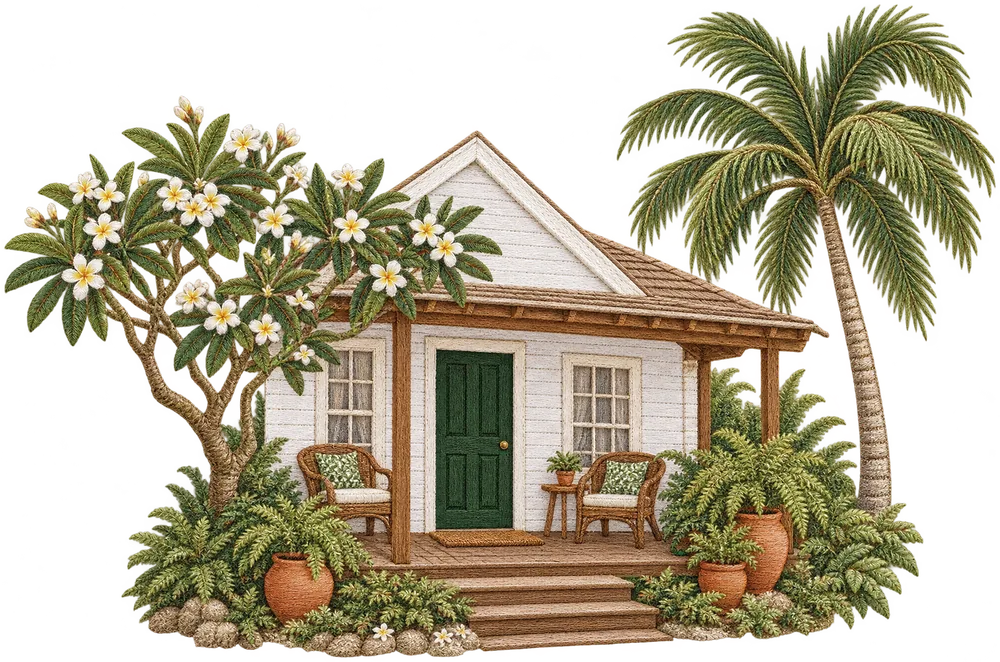
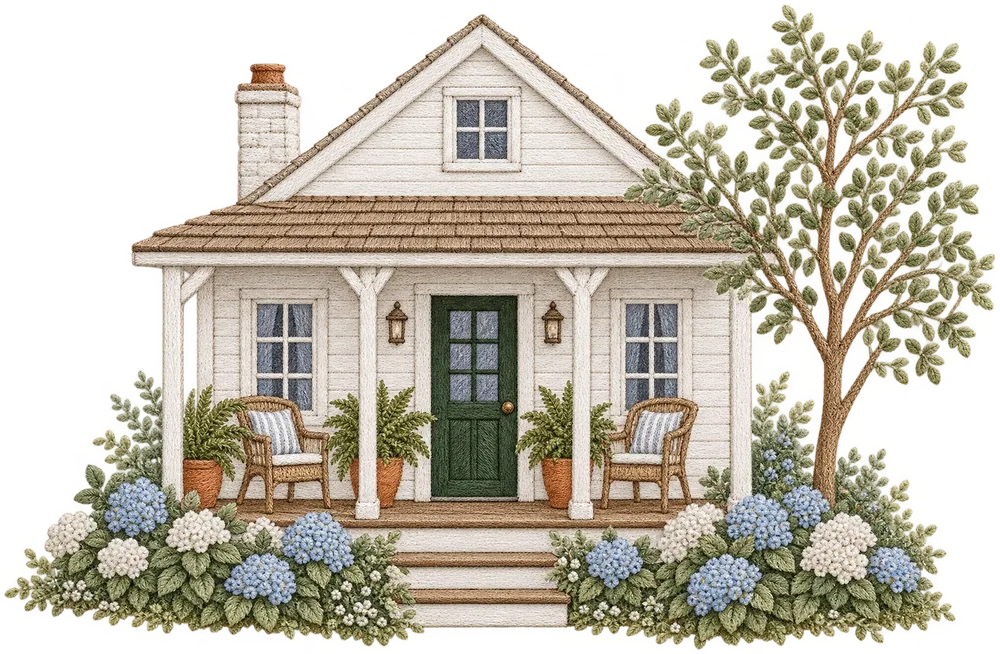
Hydrangeas and baby's breath instead of island flowers
Every floral piece redrawn with soft dusty-blue and white hydrangeas and
baby's breath, still sparse: the cover arch, envelope sprigs, stamp,
liner, side vines, cake, gramophone, bedside vase and the guest cottage.
Flower assets renamed from coastal-* to floral-*.

diff --git a/index.html b/index.html
@@ -14,7 +14,7 @@
 <meta property="og:url" content="https://benrodrigues05.github.io/rodrigues-wedding/">
 <meta property="og:title" content="Benjamin &amp; Talisha are getting married">
 <meta property="og:description" content="Saturday 6 March 2027 · Collisheen Estate, Ballito. Tap to open your invitation.">
-<meta property="og:image" content="https://benrodrigues05.github.io/rodrigues-wedding/assets/og.jpg?v=3ebeaa2f">
+<meta property="og:image" content="https://benrodrigues05.github.io/rodrigues-wedding/assets/og.jpg?v=dbecaaad">
 <meta property="og:image:width" content="1200">
 <meta property="og:image:height" content="630">
 <meta name="twitter:card" content="summary_large_image">
@@ -25,8 +25,8 @@
 <link rel="preconnect" href="https://fonts.gstatic.com" crossorigin>
 <link rel="stylesheet" href="https://fonts.googleapis.com/css2?family=Pinyon+Script&amp;display=block">
 <link rel="stylesheet" href="https://fonts.googleapis.com/css2?family=Cormorant+Garamond:ital,wght@0,400;0,500;0,600;1,400;1,500&amp;display=swap">
-<link rel="preload" as="image" href="assets/hero-arch.webp?v=c3e23fb2" type="image/webp">
-<link rel="stylesheet" href="styles.css?v=c2107449">
+<link rel="preload" as="image" href="assets/hero-arch.webp?v=a34bda23" type="image/webp">
+<link rel="stylesheet" href="styles.css?v=0fa6d76d">
 <script>
   /* Show the envelope only when JavaScript is running. If script.js?v=94473927 fails to
      load or errors, the invitation is revealed instead of staying sealed. */
@@ -47,8 +47,8 @@
 <!-- ============ THE ENVELOPE (shown first, opened by script.js?v=94473927) ============ -->
 <div class="scene" id="scene">
   <div class="scene-vignette" id="scene-vignette"></div>
-  <img class="scene-sprig scene-sprig--top" src="assets/coastal-corner.webp?v=b234eb41" width="600" height="652" alt="">
-  <img class="scene-sprig scene-sprig--bottom" src="assets/coastal-spray.webp?v=30b27298" width="600" height="821" alt="">
+  <img class="scene-sprig scene-sprig--top" src="assets/floral-corner.webp?v=78e29768" width="600" height="680" alt="">
+  <img class="scene-sprig scene-sprig--bottom" src="assets/floral-spray.webp?v=adca1588" width="600" height="560" alt="">
 
   <div class="envelope" id="envelope" aria-hidden="true">
     <div class="env-back is-hidden" id="env-back">
@@ -78,7 +78,7 @@
     </div>
 
     <div class="env-front" id="env-front">
-      <img class="env-stamp" src="assets/stamp.webp?v=bd9901a7" width="300" height="409" alt="">
+      <img class="env-stamp" src="assets/stamp.webp?v=f6080217" width="300" height="411" alt="">
       <svg class="env-postmark" viewBox="0 0 200 80" focusable="false">
         <defs>
           <path id="pm-top" d="M 13 40 A 27 27 0 0 1 67 40"/>
@@ -106,7 +106,7 @@
         </g>
       </svg>
       <p class="env-to"><span class="env-recipient" id="recipient">To our favourite people</span></p>
-      <img class="env-sprig" src="assets/coastal-sprig.webp?v=27c94e73" width="640" height="514" alt="">
+      <img class="env-sprig" src="assets/floral-sprig.webp?v=2c623f63" width="640" height="600" alt="">
     </div>
   </div>
 
@@ -119,8 +119,8 @@
 <!-- Wide screens only: the same sprigs as on the envelope's table, so the
      page keeps the setting once the letter is open. -->
 <div class="table-decor" id="table-decor" aria-hidden="true">
-  <img class="table-sprig table-sprig--top" src="assets/coastal-corner.webp?v=b234eb41" width="600" height="652" alt="">
-  <img class="table-sprig table-sprig--bottom" src="assets/coastal-spray.webp?v=30b27298" width="600" height="821" alt="">
+  <img class="table-sprig table-sprig--top" src="assets/floral-corner.webp?v=78e29768" width="600" height="680" alt="">
+  <img class="table-sprig table-sprig--bottom" src="assets/floral-spray.webp?v=adca1588" width="600" height="560" alt="">
 </div>
 
 <main class="suite" id="invitation">
@@ -129,7 +129,7 @@
   <header class="hero" id="top">
     <article class="hero-card" id="hero-card" tabindex="-1">
       <p class="eyebrow">The wedding of</p>
-      <img class="hero-arch" src="assets/hero-arch.webp?v=c3e23fb2" width="935" height="1483" alt="Benjamin and Talisha in a black-and-white photograph, framed by an embroidered stone arch of bougainvillea, hibiscus and frangipani">
+      <img class="hero-arch" src="assets/hero-arch.webp?v=a34bda23" width="939" height="1482" alt="Benjamin and Talisha in a black-and-white photograph, framed by an embroidered stone arch with hydrangeas and baby&rsquo;s breath">
       <h1 class="names">Benjamin <span class="amp">&amp;</span> Talisha</h1>
       <p class="hero-date">Saturday · 6 March 2027</p>
       <p class="hero-place">Collisheen Estate · Ballito</p>
@@ -139,8 +139,8 @@
 
   <!-- ============ 2. INVITATION + COUNTDOWN ============ -->
   <section class="families" id="invite" aria-labelledby="invite-title">
-    <img class="garland garland--left" src="assets/coastal-garland.webp?v=33c58f59" width="167" height="1200" alt="" loading="lazy" decoding="async">
-    <img class="garland garland--right" src="assets/coastal-garland.webp?v=33c58f59" width="167" height="1200" alt="" loading="lazy" decoding="async">
+    <img class="garland garland--left" src="assets/floral-garland.webp?v=346e26ac" width="168" height="1200" alt="" loading="lazy" decoding="async">
+    <img class="garland garland--right" src="assets/floral-garland.webp?v=346e26ac" width="168" height="1200" alt="" loading="lazy" decoding="async">
 
     <h2 class="script-title" id="invite-title">Please join us</h2>
     <p class="lede invite-lede">as we say &ldquo;I do&rdquo; in a little chapel among the trees</p>
@@ -184,7 +184,7 @@
   <!-- ============ 4. THE DETAILS: the running order (striped linen) ============ -->
   <section class="details" id="details" aria-labelledby="details-title">
     <div class="details-panel">
-      <img class="motif details-tl" src="assets/coastal-spray.webp?v=30b27298" width="600" height="821" alt="" loading="lazy" decoding="async">
+      <img class="motif details-tl" src="assets/floral-spray.webp?v=adca1588" width="600" height="560" alt="" loading="lazy" decoding="async">
       <img class="motif details-tr" src="assets/lanterns.webp?v=c26fea3b" width="434" height="640" alt="" loading="lazy" decoding="async">
       <h2 class="script-title details-title" id="details-title">The Details</h2>
 
@@ -212,7 +212,7 @@
       </ol>
 
       <img class="motif details-bl" src="assets/champagne.webp?v=5cf81765" width="520" height="579" alt="" loading="lazy" decoding="async">
-      <img class="motif details-br" src="assets/cake.webp?v=a040beea" width="383" height="640" alt="" loading="lazy" decoding="async">
+      <img class="motif details-br" src="assets/cake.webp?v=bcde5944" width="327" height="640" alt="" loading="lazy" decoding="async">
     </div>
   </section>
 
@@ -221,8 +221,8 @@
   <section class="dress" id="dress-code" aria-labelledby="dress-title">
     <div class="napkin">
       <div class="napkin-sprigs">
-        <img class="motif" src="assets/coastal-corner.webp?v=b234eb41" width="600" height="652" alt="" loading="lazy" decoding="async">
-        <img class="motif" src="assets/coastal-sprig.webp?v=27c94e73" width="640" height="514" alt="" loading="lazy" decoding="async">
+        <img class="motif" src="assets/floral-corner.webp?v=78e29768" width="600" height="680" alt="" loading="lazy" decoding="async">
+        <img class="motif" src="assets/floral-sprig.webp?v=2c623f63" width="640" height="600" alt="" loading="lazy" decoding="async">
       </div>
       <img class="motif guests" src="assets/guests.webp?v=6ffe99b5" width="1100" height="697" alt="Embroidered guests in terracotta, orange, marigold, chartreuse, fuchsia and plum gowns, and sand and forest-green suits" loading="lazy" decoding="async">
       <h2 class="script-title" id="dress-title">Dress Code</h2>
@@ -240,7 +240,7 @@
 
   <!-- ============ 6. WHERE TO STAY ============ -->
   <section class="stay" id="stay" aria-labelledby="stay-title">
-    <img class="motif nightstand" src="assets/nightstand.webp?v=cc990385" width="251" height="480" alt="" loading="lazy" decoding="async">
+    <img class="motif nightstand" src="assets/nightstand.webp?v=c483ba5e" width="220" height="480" alt="" loading="lazy" decoding="async">
     <h2 class="script-title" id="stay-title">Where to Stay</h2>
     <p class="caps">Good-value stays near Ballito Junction</p>
     <p class="lede">Ballito Junction is a short drive from the venue, with plenty of places to eat nearby. A few of our picks:</p>
@@ -267,7 +267,7 @@
     </ul>
     <p class="stay-more">Looking for something else? <a href="https://www.lekkeslaap.co.za/accommodation-in/ballito" target="_blank" rel="noopener">Browse more places in Ballito</a></p>
 
-    <img class="motif cottage" src="assets/cottage.webp?v=542e13ec" width="1000" height="662" alt="An embroidered whitewashed guest cottage with a frangipani tree and a palm" loading="lazy" decoding="async">
+    <img class="motif cottage" src="assets/cottage.webp?v=1d957603" width="1000" height="654" alt="An embroidered whitewashed guest cottage with hydrangea bushes" loading="lazy" decoding="async">
   </section>
 
 
@@ -288,7 +288,7 @@
   <!-- ============ 8. RSVP (reply card) ============ -->
   <section class="rsvp" id="rsvp" aria-labelledby="rsvp-title">
     <div class="reply-card">
-      <img class="reply-stamp" src="assets/stamp.webp?v=bd9901a7" width="300" height="409" alt="" loading="lazy" decoding="async">
+      <img class="reply-stamp" src="assets/stamp.webp?v=f6080217" width="300" height="411" alt="" loading="lazy" decoding="async">
       <div class="reply-head" id="rsvp-head">
         <h2 class="script-title" id="rsvp-title">Kindly Reply</h2>
         <p class="reply-by">by 1 December 2026</p>
@@ -343,7 +343,7 @@
         </div>
 
         <div class="if-attending playlist-block">
-          <img class="playlist-gramophone" src="assets/gramophone.webp?v=2d4e3658" width="640" height="900" alt="" loading="lazy" decoding="async">
+          <img class="playlist-gramophone" src="assets/gramophone.webp?v=d0c07217" width="640" height="876" alt="" loading="lazy" decoding="async">
           <p class="script-sub playlist-title">For the playlist</p>
           <p class="playlist-lede">Which songs will get you on the dance floor?</p>
           <div class="field">

diff --git a/styles.css b/styles.css
@@ -187,7 +187,7 @@ html.js:not(.is-open) body { overflow: hidden; }
   position: absolute;
   inset: 5% 4.5% 0;
   border-radius: 2px 2px 0 0;
-  background: url("assets/liner.webp?v=ed8e408a") 50% 0 / 150px 150px;
+  background: url("assets/liner.webp?v=09b85ff6") 50% 0 / 150px 150px;
 }
 .env-wall::after {            /* shadow inside the envelope's mouth */
   content: "";
@@ -221,7 +221,7 @@ html.js:not(.is-open) body { overflow: hidden; }
 .flap-paper,
 .flap-liner { position: absolute; inset: 0; }
 .flap-paper { clip-path: polygon(0 0, 100% 0, 50% 100%); background: #E7DFD0; }
-.flap-liner { clip-path: polygon(5.5% 0, 94.5% 0, 50% 90%); background: url("assets/liner.webp?v=ed8e408a") 50% 0 / 150px 150px; }
+.flap-liner { clip-path: polygon(5.5% 0, 94.5% 0, 50% 90%); background: url("assets/liner.webp?v=09b85ff6") 50% 0 / 150px 150px; }
 
 .env-seal {
   position: absolute;
